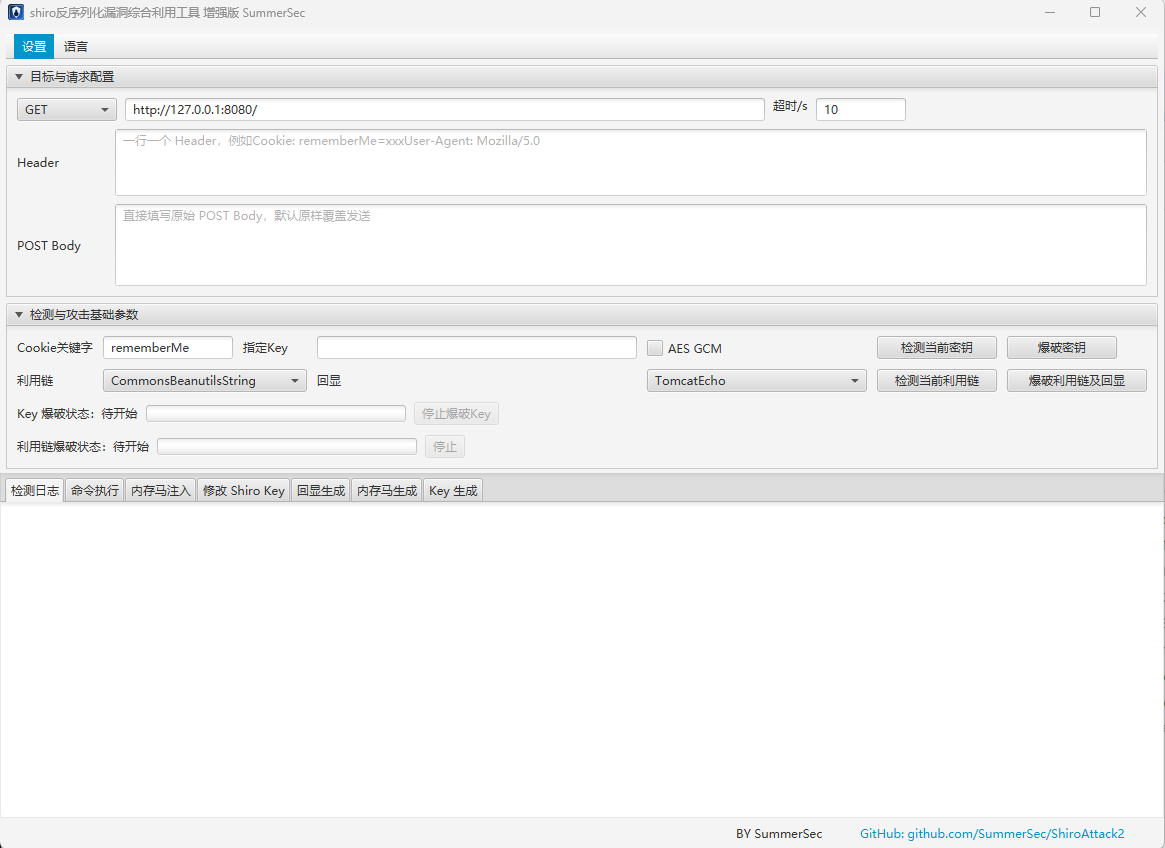
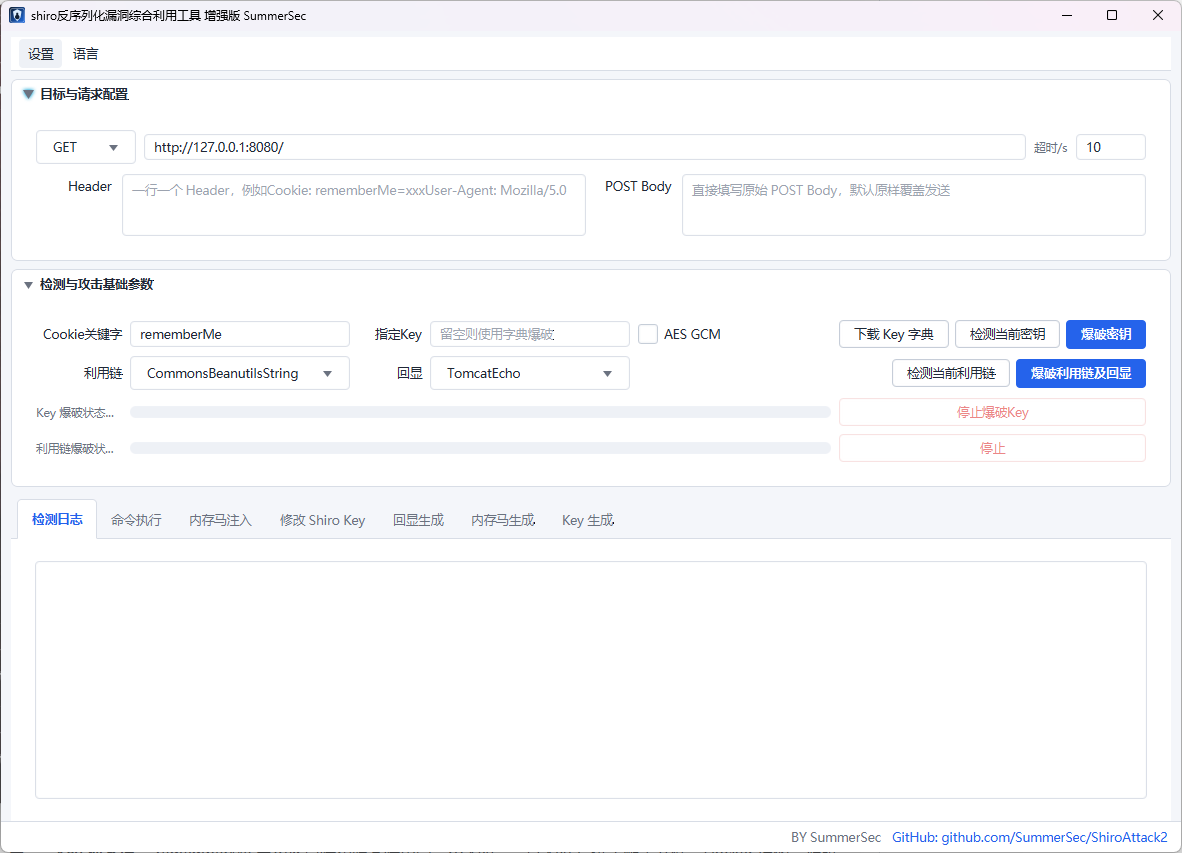
chore: update docs, plugin configs and screenshot

diff --git a/CLAUDE.md b/CLAUDE.md
@@ -26,6 +26,17 @@ java -jar target/shiro_attack-5.1.1-all.jar
 
 本项目无测试套件；仅有 GitHub Release CI（推送 tag 触发）。
 
+## 插件市场
+
+本项目同时也是 Claude Code 插件市场，通过 `.claude-plugin/marketplace.json` 注册了 `shiro-attack-cli` 技能。
+
+```bash
+# 安装（来源为 GitHub）
+claude plugins add github:SummerSec/ShiroAttack2
+```
+
+支持平台：Claude Code (`.claude-plugin/`)、Codex CLI (`.codex-plugin/`)、Cursor (`.cursor-plugin/`)。skill 源文件在 `skills/shiro-attack-cli/SKILL.md`。
+
 ## 架构概述
 
 ShiroAttack2 是一个利用 Apache Shiro rememberMe AES 反序列化漏洞（Shiro-550）的 JavaFX GUI 工具。

diff --git a/.claude/skills/shiro-attack-cli/SKILL.md b/.claude/skills/shiro-attack-cli/SKILL.md
@@ -11,7 +11,7 @@ Shiro-550 漏洞利用命令行工具，从 fat JAR 直接运行，无需 GUI。
 ## 启动方式
 
 ```bash
-JAR="shiro_attack-5.1.0-all.jar"
+JAR="shiro_attack-5.1.1-all.jar"
 CP="com.summersec.attack.CLI.MainCLI"
 java -cp $JAR $CP <命令> [选项]
 ```
@@ -126,7 +126,7 @@ java -cp $JAR $CP gui
 ## 完整流程示例
 
 ```bash
-JAR="shiro_attack-5.1.0-all.jar"
+JAR="shiro_attack-5.1.1-all.jar"
 CP="com.summersec.attack.CLI.MainCLI"
 T="http://192.168.1.100:8080"
 
